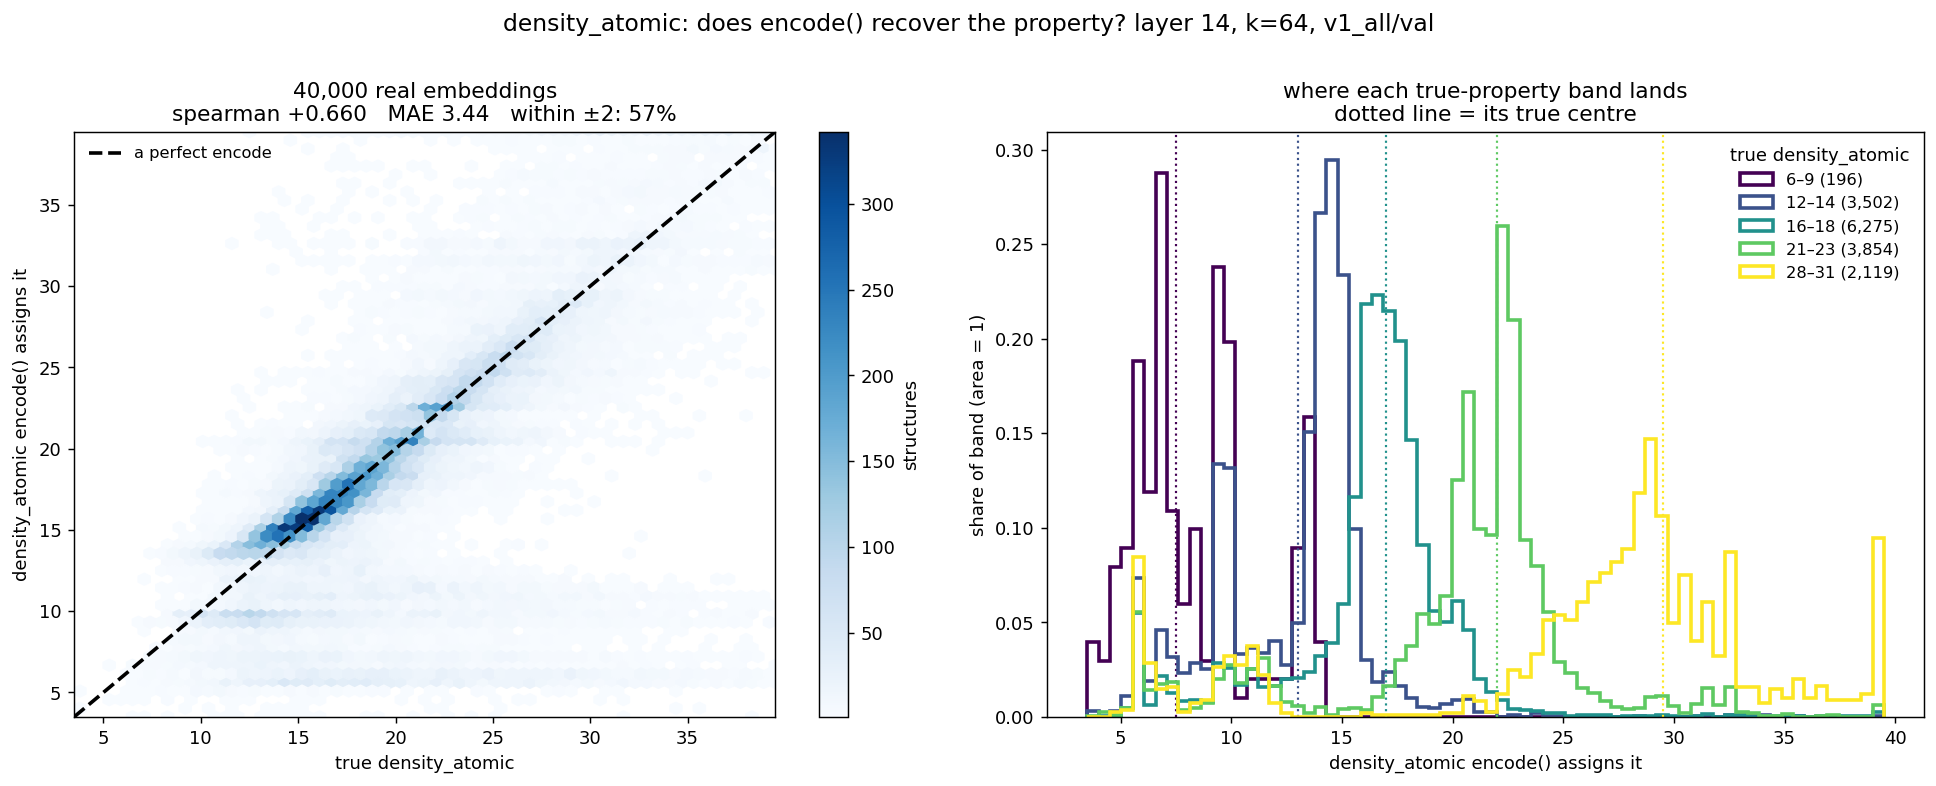
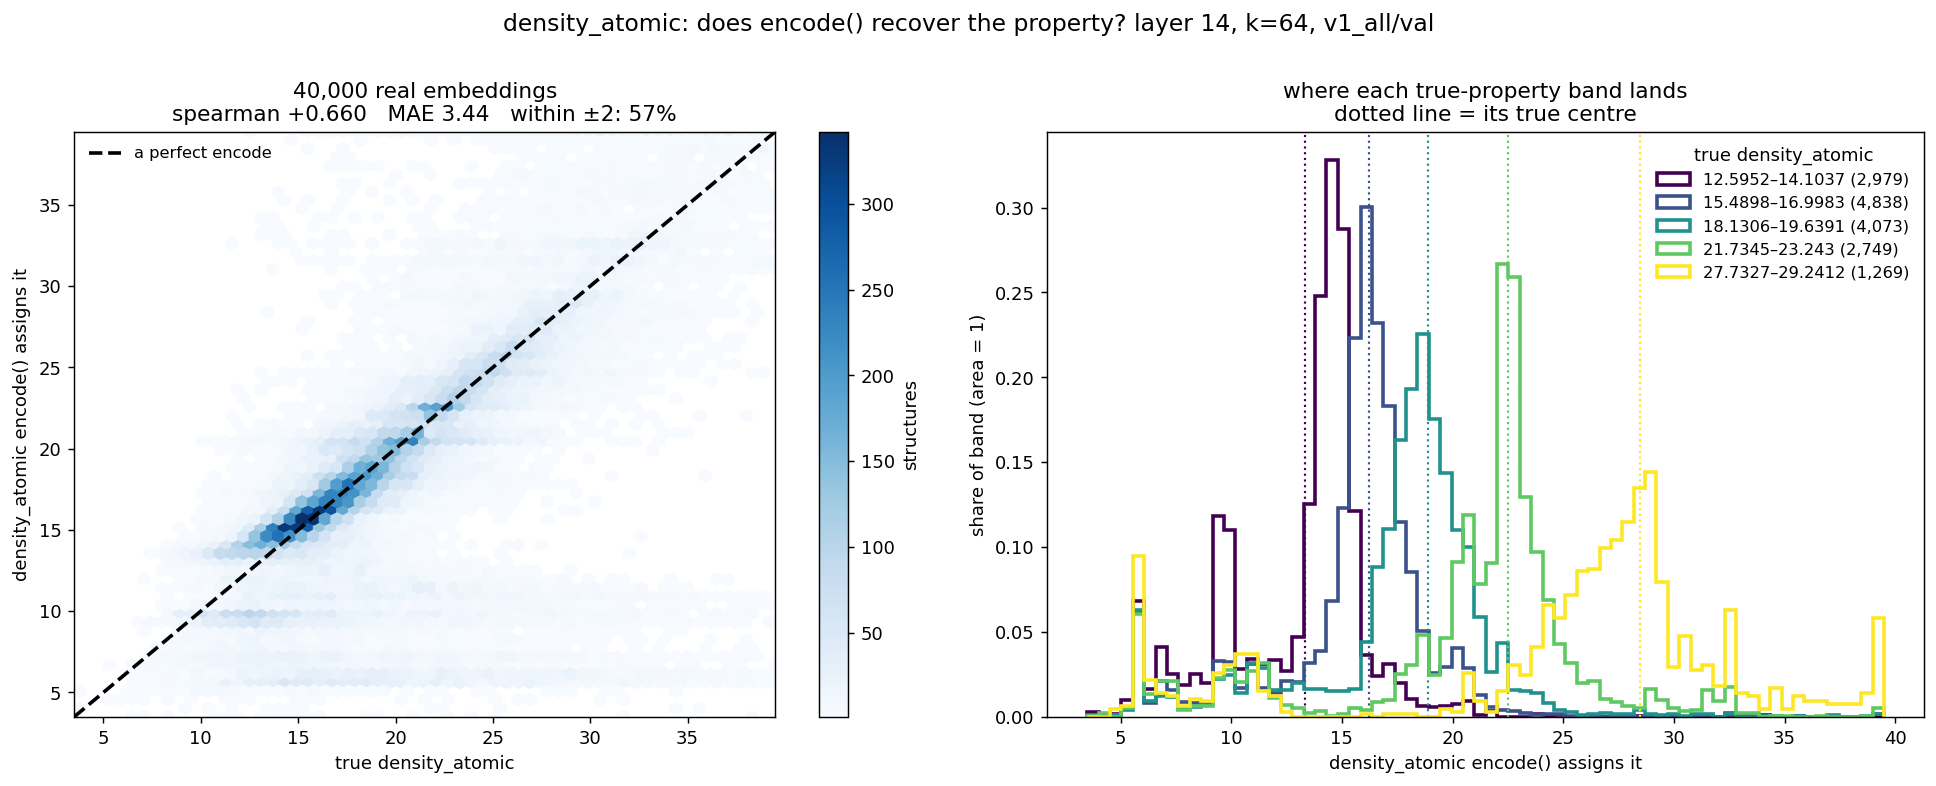
Encoding plot: derive the bands from the data
The right panel's bands were hardcoded A^3/atom windows, so for any property on
another scale every band was empty and the panel came out blank. They now sit at
the 10/30/50/70/90th percentiles of the true property, half a decile wide;
--bands overrides.

Density regenerated to check: spearman unchanged at +0.660, and its bands land
in the same region the hardcoded ones covered.

Claude-Session: https://claude.ai/code/session_01EpX8vDJ69TxFi8fcSiWVWg

diff --git a/scripts/plots/plot_manifold_encoding.py b/scripts/plots/plot_manifold_encoding.py
@@ -45,6 +45,9 @@ def main():
     ap.add_argument("--k", type=int, default=64)
     ap.add_argument("--n", type=int, default=40000, help="structures to sample")
     add_partition_args(ap)                      # --dataset / --variant / --partition
+    ap.add_argument("--bands", nargs="+", default=None,
+                    help="Explicit true-property bands as lo:hi, e.g. -3:-2.5 0:0.5. "
+                         "Default: five windows at the 10/30/50/70/90th percentiles.")
     ap.add_argument("--batch-size", type=int, default=50_000)
     args = ap.parse_args()
 
@@ -111,7 +114,19 @@ def main():
     ax.legend(loc="upper left", fontsize=9, frameon=False)
 
     ax = axes[1]
-    bands = [(6, 9), (12, 14), (16, 18), (21, 23), (28, 31)]
+    # Bands were hardcoded as A^3/atom windows, so every one of them was empty for any
+    # property on a different scale and the panel came out blank. Derive them from the
+    # data instead: five narrow windows at the 10/30/50/70/90th percentiles of the true
+    # property, each half a decile wide. --bands still overrides for a specific set.
+    if args.bands:
+        bands = [tuple(float(x) for x in b.split(":")) for b in args.bands]
+    else:
+        q = np.percentile(vals, [10, 30, 50, 70, 90])
+        half = 0.25 * (np.percentile(vals, 60) - np.percentile(vals, 40)) or \
+               0.02 * (vals.max() - vals.min())
+        bands = [(c - half, c + half) for c in q]
+    print(f"  bands (true {args.property}): "
+          + ", ".join(f"{a:g}..{b:g}" for a, b in bands))
     cmap = plt.get_cmap("viridis")
     rows = []
     for i, (a, b) in enumerate(bands):
